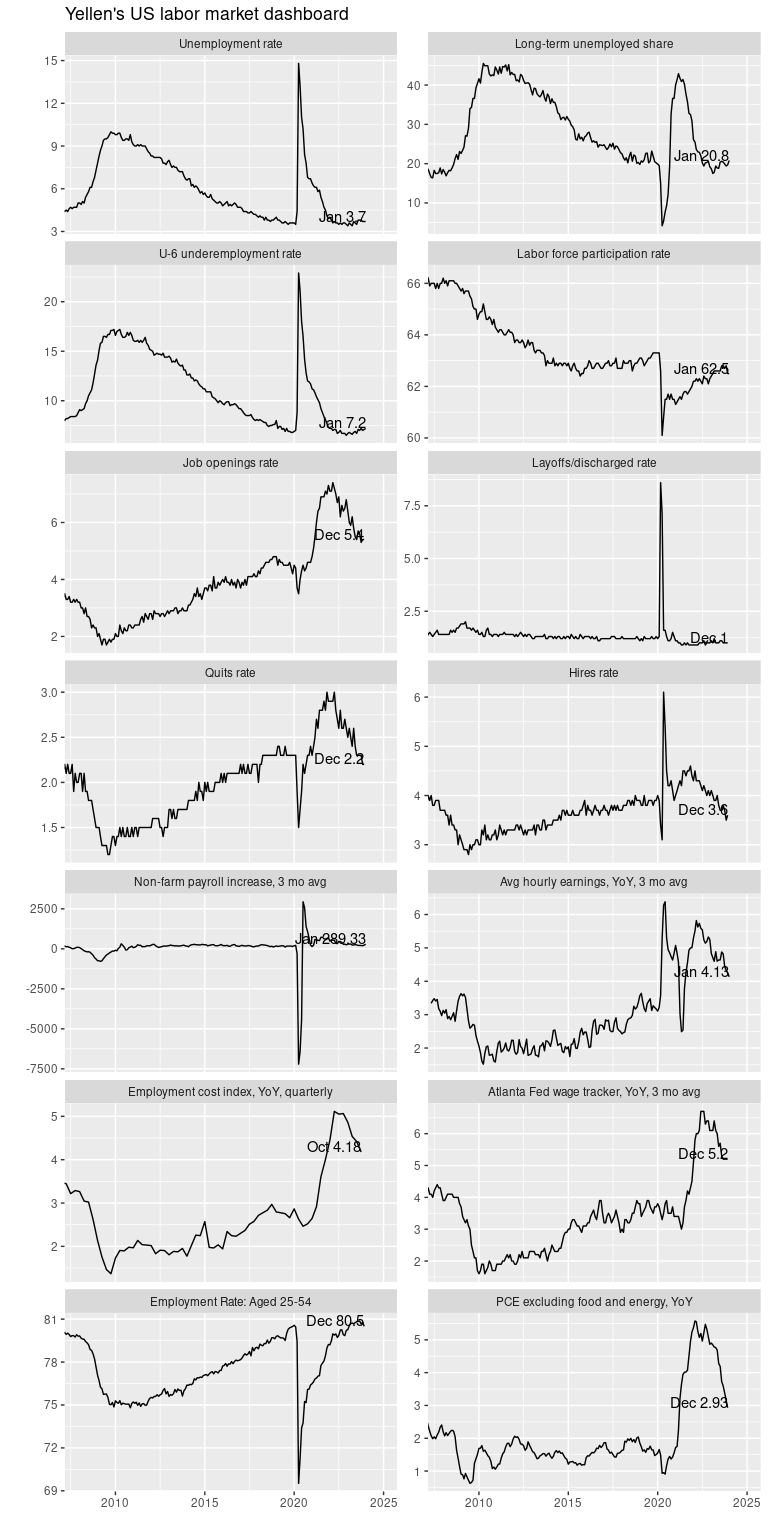
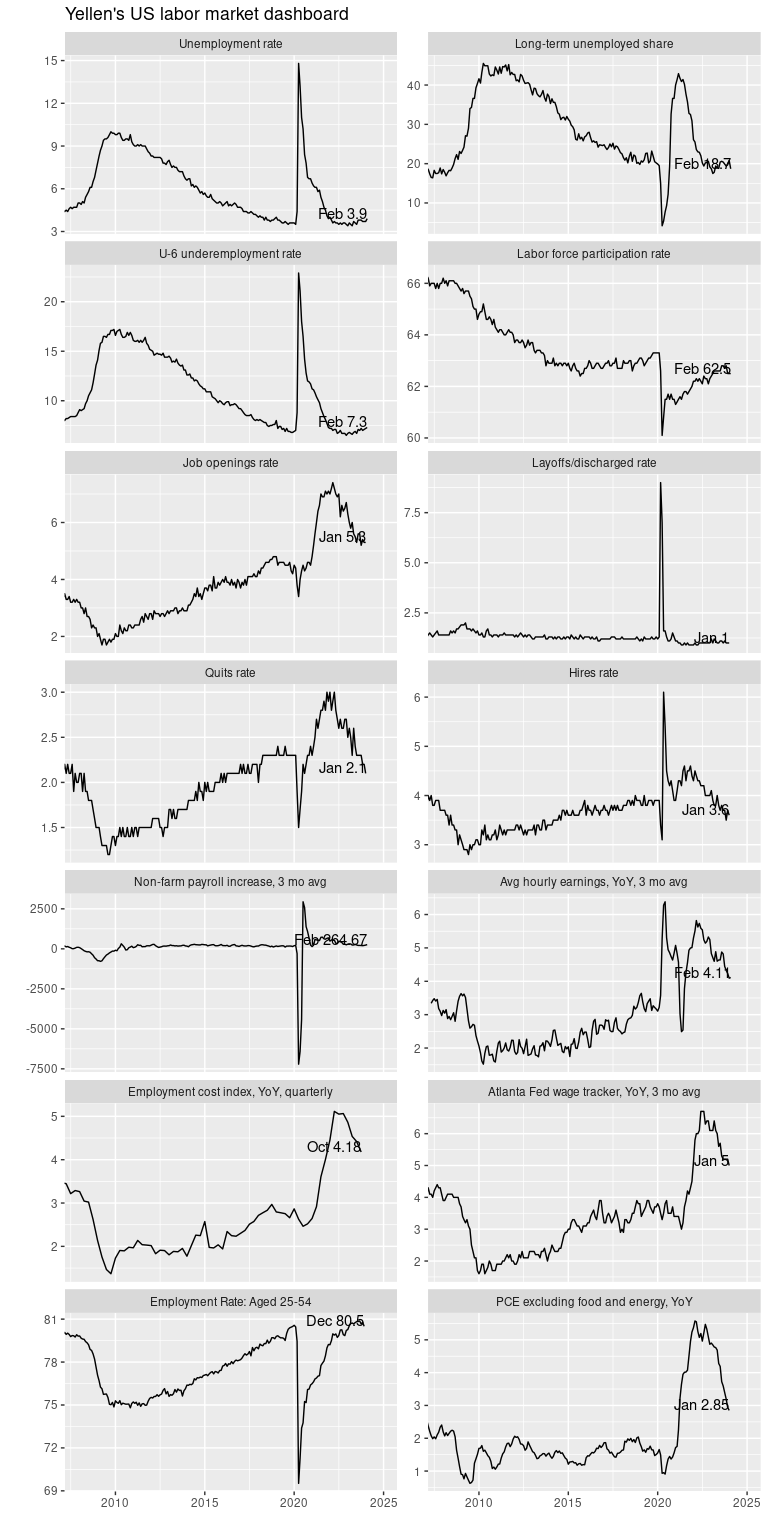
update February 2024 employment

diff --git a/README.md b/README.md
@@ -14,7 +14,7 @@ Mitsuo Shiota
 - [Prepare for the plot](#prepare-for-the-plot)
 - [Dashboard](#dashboard)
 
-Updated: 2024-02-03
+Updated: 2024-03-09
 
 ## Summary
 
